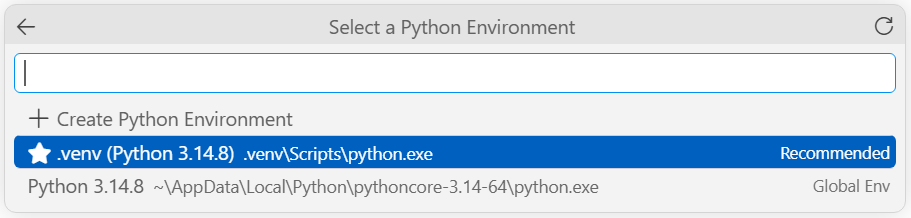
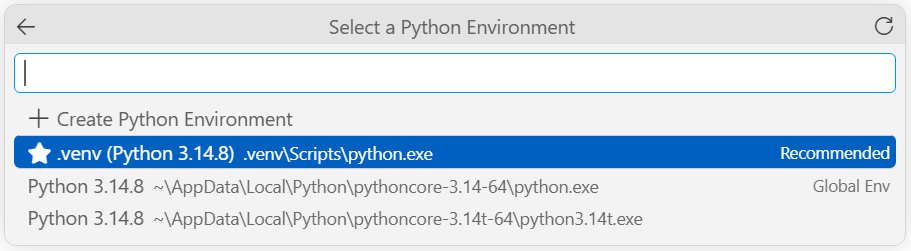
Show the free-threaded build in the notebook kernel picker screenshot
Readers install 3.14t in chapter 1, so the kernel list now includes it;
the alt text, ZRZUTY.md and the resolved tracker entry follow.

diff --git a/DO_OMOWIENIA.md b/DO_OMOWIENIA.md
@@ -58,26 +58,6 @@ rozstrzygniętą przenosimy do sekcji „Rozstrzygnięte” z datą i decyzją.
   i laboratorium L01 autor przyjął 11 X 2026, dalsze talie powstaną na jego
   polecenie (11 X 2026).
 
-### Scenariusz zrzutu listy wyboru interpretera
-
-- **Miejsce:** `docs/01-instalacja/img/vsc-select-interpreter.png`
-  (konfiguracja.md), `ZRZUTY.md` (sekcja „Wykonane”),
-  `scripts/screenshots/vscode/`.
-- **Opis:** zrzut odświeżony 4 X 2026 (VS Code 1.140.0, rozszerzenie Python
-  2026.6.0, Python 3.14.8 i 3.14t, projekt `moj-projekt` ze środowiskami
-  `.venv` i `.venv-t`) powstał w Windows Sandbox przez wywołanie sterownika
-  `vsc_zrzuty.py` scenariuszem spoza repozytorium, więc nie da się go odtworzyć
-  skryptami z `scripts/screenshots/`, czego wymaga `ZRZUTY.md`. Skrypt
-  `wsb/przygotuj.ps1` nie instaluje kompilacji 3.14t i nie tworzy `.venv-t`.
-  Generatora nie ma także zrzut `vsc-environment-manager.png`
-  (konfiguracja.md).
-- **Propozycja:** na gałęzi `infra/*` dodać scenariusz listy wyboru
-  interpretera do `SCENARIUSZE` w `vsc_zrzuty.py` i uzupełnić
-  `wsb/przygotuj.ps1` o instalację 3.14t i środowisko `.venv-t` z venv.md;
-  rozważyć scenariusz dla `vsc-environment-manager.png`.
-- **Stan:** wykonane na gałęzi `infra/zrzuty-scenariusze` (12 X 2026), czeka na
-  odbiór autora.
-
 ### Drobiazgi spoza zakresu poprawek z talii (11 X 2026)
 
 - **Miejsce i opis:** `docs/01-instalacja/ai-tools.md`, ramka „Cel sesji:
@@ -417,3 +397,18 @@ Zastosowania”, a w „Przydatnych poleceniach” `python -m pip list --outdate
 Bez listy zależności i bez wyniku polecenia, które szybko się zmieniają
 (sprawdzone 12 X 2026: IPython 9.17.1 z 14 zależnościami, pip 26.2.1; decyzja
 autora, branch `content/pip-zaleznosci`).
+
+### Odtwarzalne zrzuty VS Code (12 X 2026)
+
+Zrzuty `vsc-select-interpreter.png` i `vsc-environment-manager.png`
+(konfiguracja.md) powstają scenariuszami `interpreter` i `menedzer`
+z `scripts/screenshots/vscode/vsc_zrzuty.py`; `wsb/przygotuj.ps1` instaluje
+w piaskownicy 3.14t i tworzy `.venv-t`. Oba obrazy pokazują tryb rozszerzenia
+Python Environments (decyzja autora, wariant A): po **Create Virtual
+Environment...** lista menedżerów z pozycją **Quick Create**; tekst opisuje
+Quick Create, menedżer venv i zachowanie przy istniejącym `.venv` (ramka
+ostrzeżenia), a ramka „Wygląd a wersja VSC” — zależność od trybu. Naprawiono
+scenariusze pylint i mypy (dymek podpowiedzi w VS Code 1.141) oraz Code Runner
+(obraz porzucony 4 X tylko jako wariant). Obraz `vsc-notatnik-jadro.png`
+pokazuje także 3.14t (decyzja autora; branche `infra/zrzuty-scenariusze`
+i `content/notatnik-jadro`).

diff --git a/ZRZUTY.md b/ZRZUTY.md
@@ -53,10 +53,8 @@ Brak (stan z 4 X 2026).
       (testowanie.md);
     - `zastosowania/01-jupyter/img/vsc-notatnik-nowy.png`, `vsc-notatnik-jadro.png` — nowy
       notatnik z przyciskiem Select Kernel i lista wyboru środowiska z `.venv` projektu
-      (notatnik-jupyter.md). Od 12 X 2026 piaskownica ma również kompilację 3.14t, którą
-      czytelnik instaluje w rozdziale 1, więc scenariusz pokazuje na liście dodatkowy wiersz
-      `pythoncore-3.14t-64`; obraz w książce (bez niego) i jego tekst alternatywny czekają
-      na decyzję autora.
+      (notatnik-jupyter.md). Lista obejmuje także kompilację 3.14t, którą czytelnik instaluje
+      w rozdziale 1 (obraz odświeżony 12 X 2026, VS Code 1.141.0, decyzja autora).
 - `01-instalacja/img/jupyter-interfejs.png` — strona główna Jupyter Notebook (notebook.md);
   `scripts/screenshots/jupyter_interfejs.py`, przeglądarka Edge bez okna.
 - `02-konsola/img/repl-kolorowanie.png` — kolorowy nowy REPL (index.md); przechwycenie przez

diff --git a/docs/zastosowania/01-jupyter/notatnik-jupyter.md b/docs/zastosowania/01-jupyter/notatnik-jupyter.md
@@ -18,7 +18,7 @@ W VSC potrzebne jest rozszerzenie **Jupyter** (`ms-toolsai.jupyter`) z galerii r
 
 ![Nowy notatnik Untitled-1.ipynb w VSC: pasek z przyciskami Code, Markdown i Run All, pusta komórka kodu, a w prawym górnym rogu przycisk Select Kernel](img/vsc-notatnik-nowy.png)
 
-![Lista Select a Python Environment z zalecanym interpreterem .venv projektu na pierwszym miejscu i globalnym interpreterem Pythona 3.14 poniżej](img/vsc-notatnik-jadro.png)
+![Lista Select a Python Environment z zalecanym interpreterem .venv projektu na pierwszym miejscu i globalnymi interpreterami Pythona 3.14 i 3.14t poniżej](img/vsc-notatnik-jadro.png)
 
 ## Komórki kodu i wartość ostatniego wyrażenia
 
